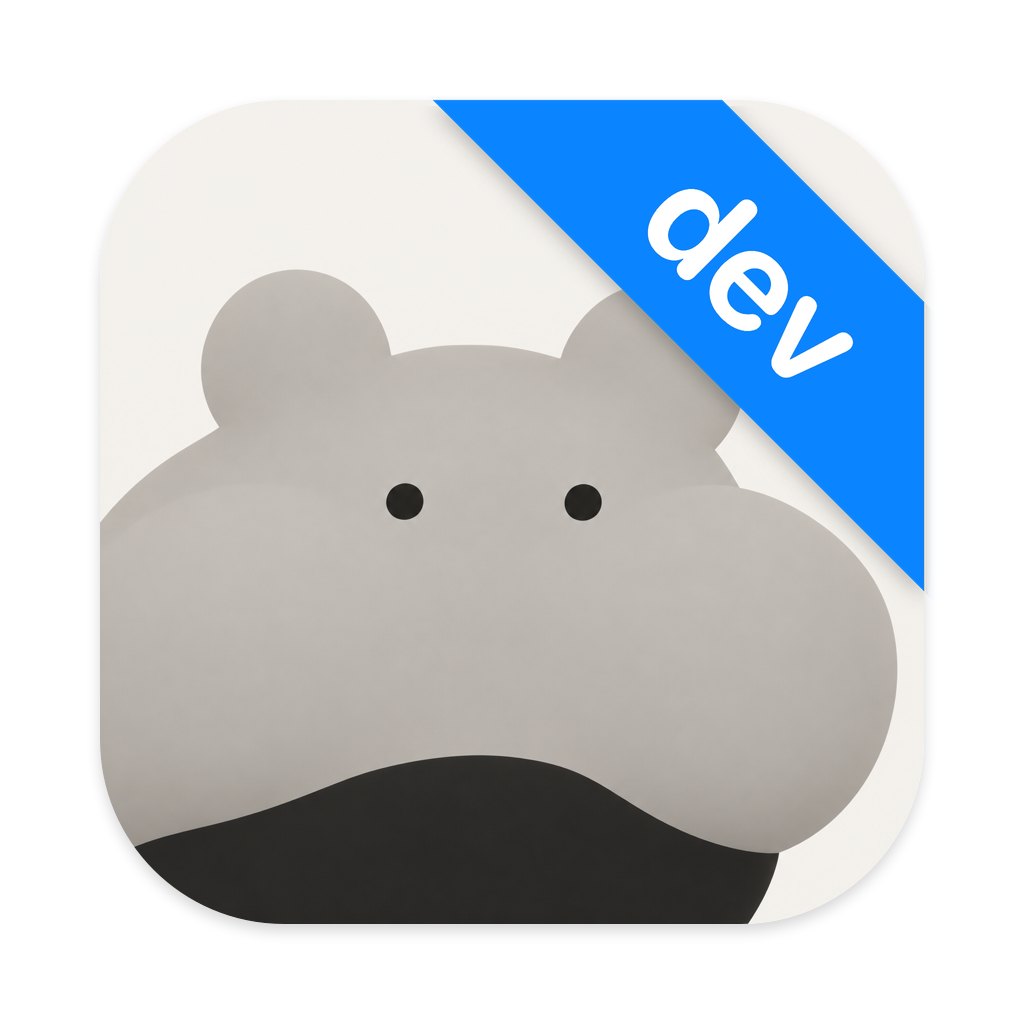
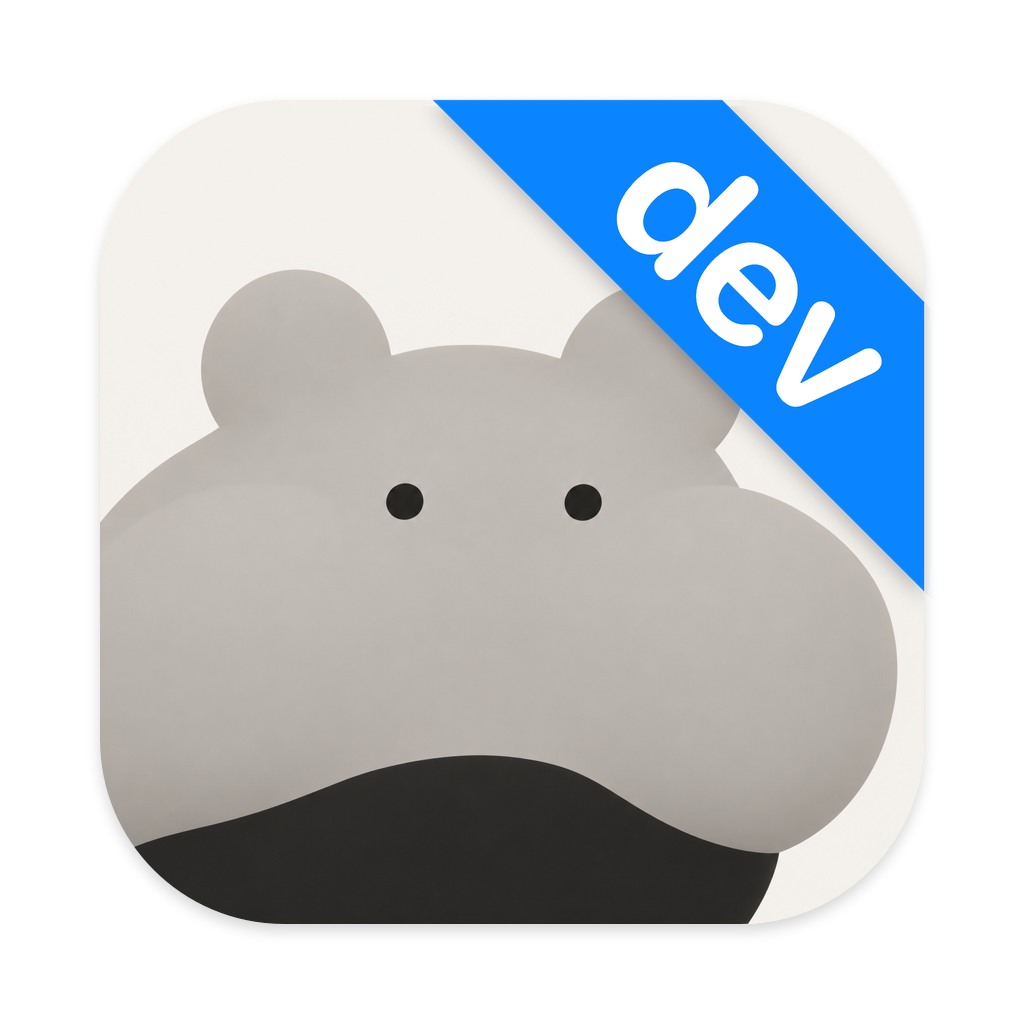
chore(preview): a larger dev label on the ribbon

Changed region(s): [[0.5938, 0.1562, 0.875, 0.4062]]

diff --git a/tools/branding/dev_icon.py b/tools/branding/dev_icon.py
@@ -44,7 +44,7 @@ layer.paste(BLUE, (0, 0), mask)
 # "dev" centred on the visible stretch of the band's middle line (from the
 # icon's top edge to its right edge), centred by the ink, not the font's box.
 mid = (near + far) / 2
-f = font(int(0.17 * side * S))
+f = font(int(0.22 * side * S))
 x0, y0, x1, y1 = ImageDraw.Draw(Image.new("L", (1, 1))).textbbox((0, 0), "dev", font=f)
 word = Image.new("RGBA", (x1 - x0, y1 - y0), (0, 0, 0, 0))
 ImageDraw.Draw(word).text((-x0, -y0), "dev", font=f, fill=(255, 255, 255, 255))
